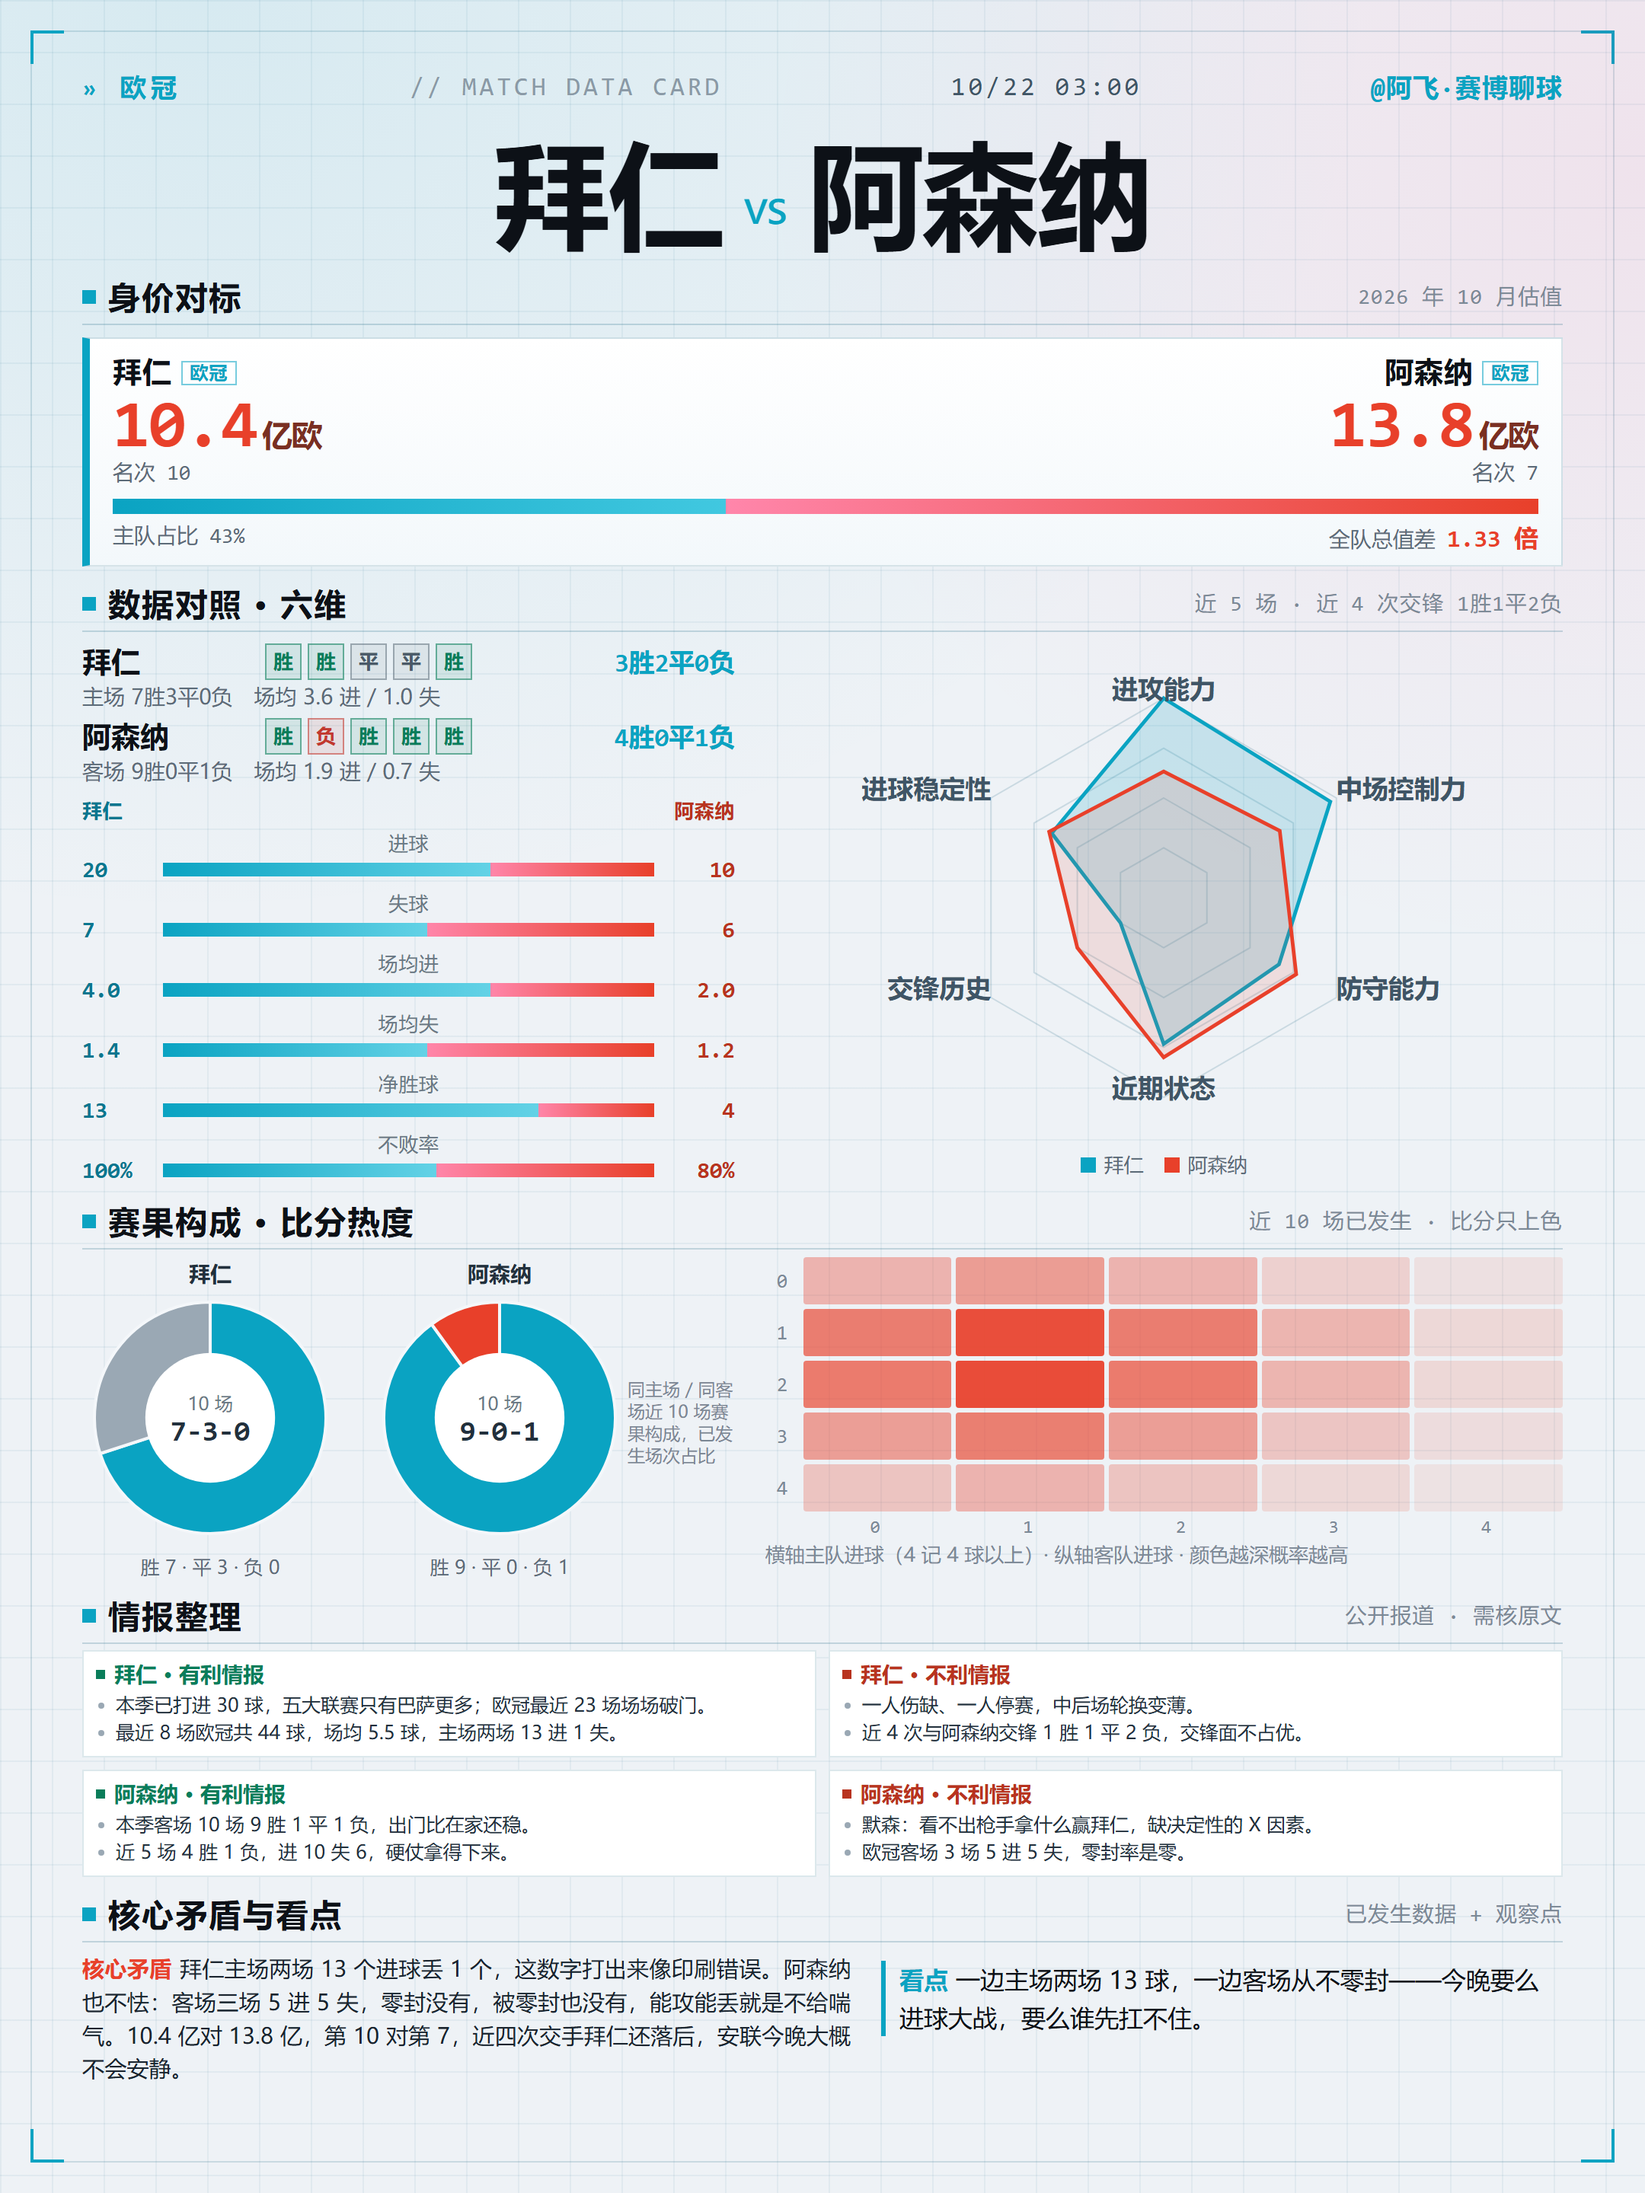
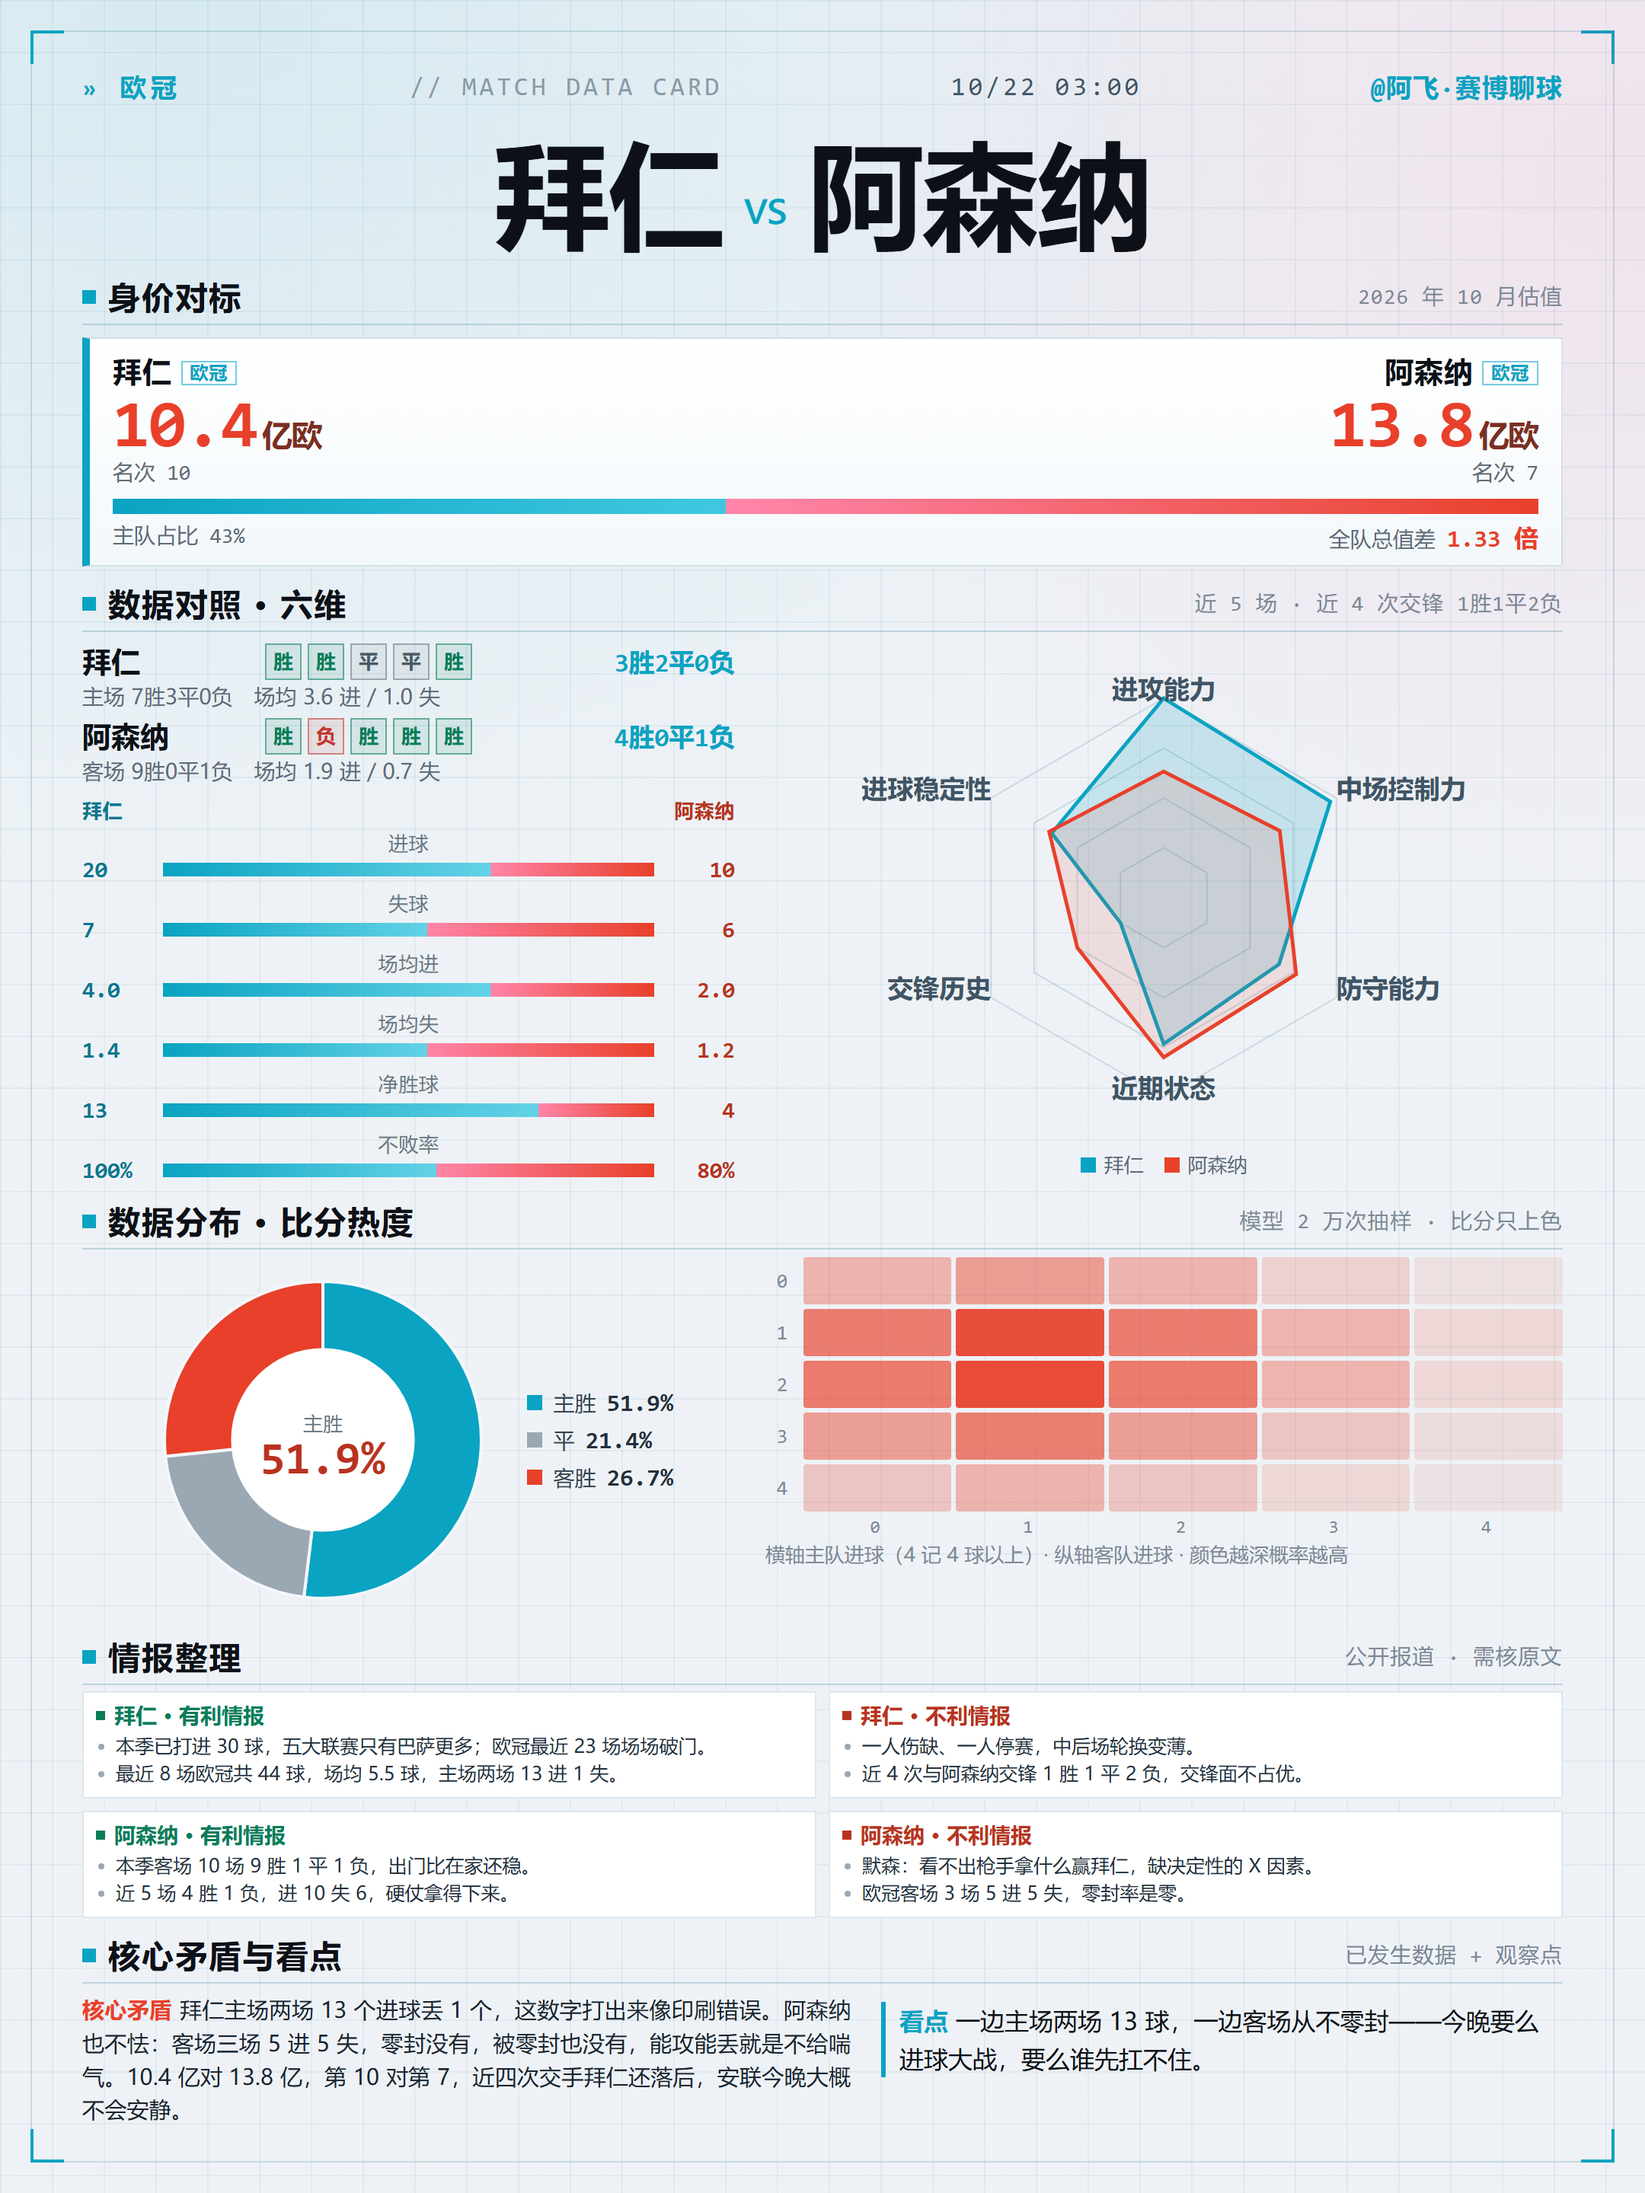
小红书 D 版 v6：胜平负饼图回归、标题可配（市场支持率会被闸门判 市场折算，默认用「数据分布」）

diff --git a/scripts/xhs_card_d.py b/scripts/xhs_card_d.py
@@ -456,9 +456,9 @@ def card_html(card: dict, idx: int, total: int) -> str:
     <span><i style="background:#e8402a"></i>{away}</span></div></div>
 </div></section>
 
-<section class="sec"><div class="sh"><span class="n">赛果构成 · 比分热度</span><span class="h">近 10 场已发生 · 比分只上色</span></div>
+<section class="sec"><div class="sh"><span class="n">{esc(card.get("pie_title") or ("赛果构成" if card.get("pie_mode") == "form" else "数据分布"))} · 比分热度</span><span class="h">{esc(card.get("pie_note") or ("近 10 场已发生" if card.get("pie_mode") == "form" else "模型 2 万次抽样"))} · 比分只上色</span></div>
 <div class="two c2b">
-  <div class="pie">{form_pies(card)}</div>
+  <div class="pie">{form_pies(card) if card.get("pie_mode") == "form" else wdl_pie(card)}</div>
   <div class="heat">{mc_heat(card)}</div>
 </div></section>
 
